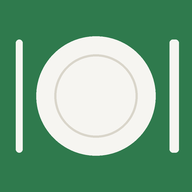
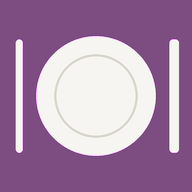
App-Symbol in Pflaume statt Grün, Offline-Speicher erneuert
Claude-Session: https://claude.ai/code/session_015B6X8yqQAjBvDgyYJoMmo7

diff --git a/sw.js b/sw.js
@@ -1,6 +1,6 @@
 // Offline-Speicher: Seite und Bilder bleiben am Handy, auch ohne Internet.
 // Die Seite selbst wird immer zuerst frisch geholt, damit neue Rezepte sofort da sind.
-const CACHE = "mampfplan-v1";
+const CACHE = "mampfplan-v2";
 self.addEventListener("install", e => {
   e.waitUntil(caches.open(CACHE).then(c => c.addAll(["./", "manifest.webmanifest", "icons/icon-192.png"])));
   self.skipWaiting();
